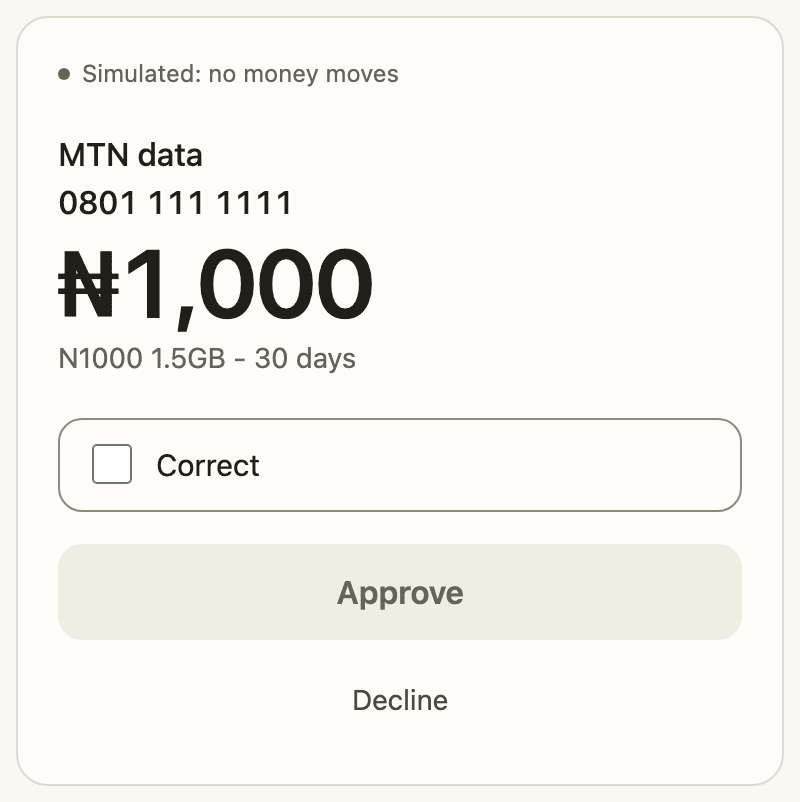
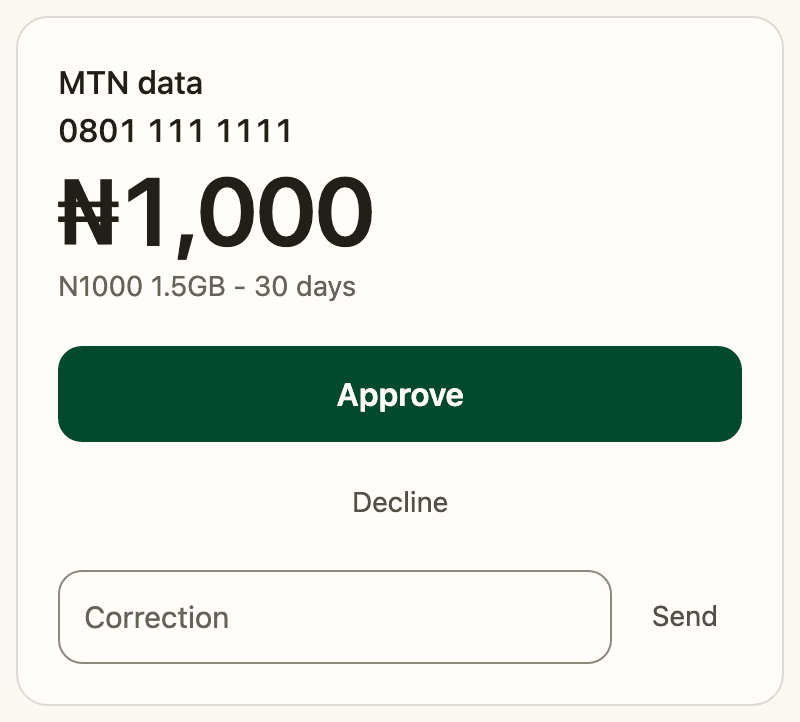
Card: no read-back tick; Approve, Decline and a Correction field that declines the card and tells the chat

diff --git a/checkout/src/checkout/card/card.html b/checkout/src/checkout/card/card.html
@@ -5,7 +5,7 @@
 <meta name="viewport" content="width=device-width, initial-scale=1">
 <title>Approval card</title>
 <style>/*! tailwindcss v4.3.3 | MIT License | https://tailwindcss.com */
-@layer properties{@supports (((-webkit-hyphens:none)) and (not (margin-trim:inline))) or ((-moz-orient:inline) and (not (color:rgb(from red r g b)))){*,:before,:after,::backdrop{--tw-border-style:solid;--tw-leading:initial;--tw-font-weight:initial;--tw-tracking:initial;--tw-ordinal:initial;--tw-slashed-zero:initial;--tw-numeric-figure:initial;--tw-numeric-spacing:initial;--tw-numeric-fraction:initial;--tw-outline-style:solid}}}@layer theme{:root,:host{--font-mono:ui-monospace, SFMono-Regular, Menlo, Monaco, Consolas, "Liberation Mono", "Courier New", monospace;--spacing:.25rem;--container-sm:24rem;--text-xs:.75rem;--text-xs--line-height:calc(1 / .75);--text-sm:.875rem;--text-sm--line-height:calc(1.25 / .875);--text-base:1rem;--text-base--line-height:calc(1.5 / 1);--text-2xl:1.5rem;--text-2xl--line-height:calc(2 / 1.5);--text-5xl:3rem;--text-5xl--line-height:1;--font-weight-medium:500;--font-weight-semibold:600;--tracking-tight:-.025em;--tracking-widest:.1em;--leading-snug:1.375;--animate-spin:spin 1s linear infinite;--animate-pulse:pulse 2s cubic-bezier(.4, 0, .6, 1) infinite;--default-font-family:var(--stack-sans);--default-mono-font-family:var(--font-mono)}}@layer base{*,:after,:before,::backdrop{box-sizing:border-box;border:0 solid;margin:0;padding:0}::file-selector-button{box-sizing:border-box;border:0 solid;margin:0;padding:0}html,:host{-webkit-text-size-adjust:100%;tab-size:4;line-height:1.5;font-family:var(--default-font-family,-apple-system, BlinkMacSystemFont, "Segoe UI", Roboto, "Helvetica Neue", "Noto Sans", Arial, sans-serif, "Apple Color Emoji", "Segoe UI Emoji", "Segoe UI Symbol", "Noto Color Emoji");font-feature-settings:var(--default-font-feature-settings,normal);font-variation-settings:var(--default-font-variation-settings,normal);-webkit-tap-highlight-color:transparent}hr{height:0;color:inherit;border-top-width:1px}abbr:where([title]){-webkit-text-decoration:underline dotted;text-decoration:underline dotted}h1,h2,h3,h4,h5,h6{font-size:inherit;font-weight:inherit}a{color:inherit;-webkit-text-decoration:inherit;-webkit-text-decoration:inherit;-webkit-text-decoration:inherit;text-decoration:inherit}b,strong{font-weight:bolder}code,kbd,samp,pre{font-family:var(--default-mono-font-family,ui-monospace, SFMono-Regular, Menlo, Monaco, Consolas, "Liberation Mono", "Courier New", monospace);font-feature-settings:var(--default-mono-font-feature-settings,normal);font-variation-settings:var(--default-mono-font-variation-settings,normal);font-size:1em}small{font-size:80%}sub,sup{vertical-align:baseline;font-size:75%;line-height:0;position:relative}sub{bottom:-.25em}sup{top:-.5em}table{text-indent:0;border-color:inherit;border-collapse:collapse}:-moz-focusring:where(:not(iframe)){outline:auto}progress{vertical-align:baseline}summary{display:list-item}ol,ul,menu{list-style:none}img,svg,video,canvas,audio,iframe,embed,object{vertical-align:middle;display:block}img,video{max-width:100%;height:auto}button,input,select,optgroup,textarea{font:inherit;font-feature-settings:inherit;font-variation-settings:inherit;letter-spacing:inherit;color:inherit;opacity:1;background-color:#0000;border-radius:0}::file-selector-button{font:inherit;font-feature-settings:inherit;font-variation-settings:inherit;letter-spacing:inherit;color:inherit;opacity:1;background-color:#0000;border-radius:0}:where(select:is([multiple],[size])) optgroup{font-weight:bolder}:where(select:is([multiple],[size])) optgroup option{padding-inline-start:20px}::file-selector-button{margin-inline-end:4px}::placeholder{opacity:1}@supports (not ((-webkit-appearance:-apple-pay-button))) or (contain-intrinsic-size:1px){::placeholder{color:currentColor}@supports (color:color-mix(in lab, red, red)){::placeholder{color:color-mix(in oklab, currentcolor 50%, transparent)}}}textarea{resize:vertical}::-webkit-search-decoration{-webkit-appearance:none}::-webkit-date-and-time-value{min-height:1lh;text-align:inherit}::-webkit-datetime-edit{display:inline-flex}::-webkit-datetime-edit-fields-wrapper{padding:0}::-webkit-datetime-edit{padding-block:0}::-webkit-datetime-edit-year-field{padding-block:0}::-webkit-datetime-edit-month-field{padding-block:0}::-webkit-datetime-edit-day-field{padding-block:0}::-webkit-datetime-edit-hour-field{padding-block:0}::-webkit-datetime-edit-minute-field{padding-block:0}::-webkit-datetime-edit-second-field{padding-block:0}::-webkit-datetime-edit-millisecond-field{padding-block:0}::-webkit-datetime-edit-meridiem-field{padding-block:0}::-webkit-calendar-picker-indicator{line-height:1}:-moz-ui-invalid{box-shadow:none}button,input:where([type=button],[type=reset],[type=submit]){appearance:button}::file-selector-button{appearance:button}::-webkit-inner-spin-button{height:auto}::-webkit-outer-spin-button{height:auto}[hidden]:where(:not([hidden=until-found])){display:none!important}}@layer components{.btn-primary{min-height:calc(var(--spacing) * 11);cursor:pointer;border-radius:var(--r-control);background-color:var(--primary);width:100%;padding-inline:calc(var(--spacing) * 4);padding-block:calc(var(--spacing) * 3);font-size:var(--text-base);line-height:var(--tw-leading,var(--text-base--line-height));--tw-font-weight:var(--font-weight-semibold);font-weight:var(--font-weight-semibold);color:var(--on-primary)}.btn-primary:focus-visible{outline:2px solid var(--primary);outline-offset:2px}@media (hover:hover){.btn-primary:hover{background-color:var(--primary-hover)}}.btn-primary:active{background-color:var(--primary-pressed)}.btn-primary:disabled{cursor:not-allowed;background-color:var(--sunken);color:var(--ink-3)}@media (hover:hover){.btn-primary:disabled:hover{background-color:var(--sunken)}}.btn-secondary{min-height:calc(var(--spacing) * 11);cursor:pointer;border-radius:var(--r-control);border-style:var(--tw-border-style);border-width:1px;border-color:var(--line-strong);width:100%;padding-inline:calc(var(--spacing) * 4);padding-block:calc(var(--spacing) * 2.5);font-size:var(--text-base);line-height:var(--tw-leading,var(--text-base--line-height));color:var(--ink);background-color:#0000}.btn-secondary:focus-visible{outline:2px solid var(--primary);outline-offset:2px}@media (hover:hover){.btn-secondary:hover{background-color:var(--mint)}}.btn-secondary:disabled{cursor:not-allowed;opacity:.5}.btn-quiet{min-height:calc(var(--spacing) * 11);cursor:pointer;border-radius:var(--r-control);padding-inline:calc(var(--spacing) * 3);font-size:var(--text-sm);line-height:var(--tw-leading,var(--text-sm--line-height));color:var(--ink-2);background-color:#0000}.btn-quiet:focus-visible{outline:2px solid var(--primary);outline-offset:2px}@media (hover:hover){.btn-quiet:hover{color:var(--ink)}}.btn-quiet:disabled{cursor:not-allowed;opacity:.5}.field{border-radius:var(--r-control);border-style:var(--tw-border-style);border-width:1px;border-color:var(--line-strong);padding-inline:calc(var(--spacing) * 3);font-size:var(--text-base);line-height:var(--tw-leading,var(--text-base--line-height));color:var(--ink);background-color:#0000}.field:focus-visible{outline:2px solid var(--primary);outline-offset:2px}.field::placeholder{color:var(--ink-3)}}@layer utilities{.sr-only{clip-path:inset(50%);white-space:nowrap;border-width:0;width:1px;height:1px;margin:-1px;padding:0;position:absolute;overflow:hidden}.absolute{position:absolute}.relative{position:relative}.-start-\[calc\(0\.5rem\+1px\)\]{inset-inline-start:calc(-.5rem - 1px)}.top-0{top:0}.m-0{margin:0}.mx-auto{margin-inline:auto}.my-1{margin-block:var(--spacing)}.ms-2{margin-inline-start:calc(var(--spacing) * 2)}.mt-1{margin-top:var(--spacing)}.mt-3{margin-top:calc(var(--spacing) * 3)}.mt-4{margin-top:calc(var(--spacing) * 4)}.mt-5{margin-top:calc(var(--spacing) * 5)}.mb-2{margin-bottom:calc(var(--spacing) * 2)}.mb-4{margin-bottom:calc(var(--spacing) * 4)}.block{display:block}.flex{display:flex}.grid{display:grid}.hidden{display:none}.inline{display:inline}.size-2\.5{width:calc(var(--spacing) * 2.5);height:calc(var(--spacing) * 2.5)}.size-4{width:calc(var(--spacing) * 4);height:calc(var(--spacing) * 4)}.size-5{width:calc(var(--spacing) * 5);height:calc(var(--spacing) * 5)}.w-full{width:100%}.max-w-sm{max-width:var(--container-sm)}.min-w-0{min-width:0}.shrink-0{flex-shrink:0}.animate-spin{animation:var(--animate-spin)}.cursor-pointer{cursor:pointer}.list-none{list-style-type:none}.flex-col{flex-direction:column}.place-items-center{place-items:center}.items-center{align-items:center}.justify-between{justify-content:space-between}.gap-0\.5{gap:calc(var(--spacing) * .5)}.gap-2{gap:calc(var(--spacing) * 2)}.gap-3{gap:calc(var(--spacing) * 3)}.gap-4{gap:calc(var(--spacing) * 4)}.rounded-card{border-radius:var(--r-card)}.rounded-control{border-radius:var(--r-control)}.rounded-full{border-radius:3.40282e38px}.border{border-style:var(--tw-border-style);border-width:1px}.border-2{border-style:var(--tw-border-style);border-width:2px}.border-s-2{border-inline-start-style:var(--tw-border-style);border-inline-start-width:2px}.border-t{border-top-style:var(--tw-border-style);border-top-width:1px}.border-ink{border-color:var(--ink)}.border-line{border-color:var(--line)}.border-line-strong{border-color:var(--line-strong)}.border-ok{border-color:var(--ok)}.bg-ink{background-color:var(--ink)}.bg-ok{background-color:var(--ok)}.bg-raised{background-color:var(--raised)}.bg-sunken{background-color:var(--sunken)}.bg-transparent{background-color:#0000}.p-0{padding:0}.p-2{padding:calc(var(--spacing) * 2)}.p-5{padding:calc(var(--spacing) * 5)}.px-3{padding-inline:calc(var(--spacing) * 3)}.px-4{padding-inline:calc(var(--spacing) * 4)}.py-2{padding-block:calc(var(--spacing) * 2)}.py-2\.5{padding-block:calc(var(--spacing) * 2.5)}.py-3{padding-block:calc(var(--spacing) * 3)}.ps-6{padding-inline-start:calc(var(--spacing) * 6)}.pb-3{padding-bottom:calc(var(--spacing) * 3)}.text-center{text-align:center}.text-left{text-align:left}.text-right{text-align:right}.font-mono{font-family:var(--font-mono)}.font-sans{font-family:var(--stack-sans)}.text-2xl{font-size:var(--text-2xl);line-height:var(--tw-leading,var(--text-2xl--line-height))}.text-5xl{font-size:var(--text-5xl);line-height:var(--tw-leading,var(--text-5xl--line-height))}.text-base{font-size:var(--text-base);line-height:var(--tw-leading,var(--text-base--line-height))}.text-sm{font-size:var(--text-sm);line-height:var(--tw-leading,var(--text-sm--line-height))}.text-xs{font-size:var(--text-xs);line-height:var(--tw-leading,var(--text-xs--line-height))}.text-\[0\.9375rem\]{font-size:.9375rem}.leading-5{--tw-leading:calc(var(--spacing) * 5);line-height:calc(var(--spacing) * 5)}.leading-snug{--tw-leading:var(--leading-snug);line-height:var(--leading-snug)}.font-medium{--tw-font-weight:var(--font-weight-medium);font-weight:var(--font-weight-medium)}.font-semibold{--tw-font-weight:var(--font-weight-semibold);font-weight:var(--font-weight-semibold)}.tracking-tight{--tw-tracking:var(--tracking-tight);letter-spacing:var(--tracking-tight)}.tracking-widest{--tw-tracking:var(--tracking-widest);letter-spacing:var(--tracking-widest)}.wrap-break-word{overflow-wrap:break-word}.break-all{word-break:break-all}.whitespace-nowrap{white-space:nowrap}.text-bad{color:var(--bad)}.text-ground{color:var(--ground)}.text-ink{color:var(--ink)}.text-ink-2{color:var(--ink-2)}.text-ink-3{color:var(--ink-3)}.tabular-nums{--tw-numeric-spacing:tabular-nums;font-variant-numeric:var(--tw-ordinal,) var(--tw-slashed-zero,) var(--tw-numeric-figure,) var(--tw-numeric-spacing,) var(--tw-numeric-fraction,)}.line-through{text-decoration-line:line-through}.accent-ink{accent-color:var(--ink)}.opacity-25{opacity:.25}.focus-ring:focus-visible{outline:2px solid var(--primary);outline-offset:2px}.outline-4{outline-style:var(--tw-outline-style);outline-width:4px}.outline-offset-2{outline-offset:2px}.outline-line-strong{outline-color:var(--line-strong)}.placeholder\:text-ink-3::placeholder{color:var(--ink-3)}.last\:border-transparent:last-child{border-color:#0000}.last\:pb-0:last-child{padding-bottom:0}.empty\:hidden:empty{display:none}.has-focus-visible\:outline-2:has(:focus-visible){outline-style:var(--tw-outline-style);outline-width:2px}.has-focus-visible\:outline-offset-2:has(:focus-visible){outline-offset:2px}.has-focus-visible\:outline-primary:has(:focus-visible){outline-color:var(--primary)}.aria-invalid\:border-bad[aria-invalid=true]{border-color:var(--bad)}.data-\[tone\=bad\]\:bg-bad-soft[data-tone=bad]{background-color:var(--bad-soft)}.data-\[tone\=bad\]\:text-bad[data-tone=bad]{color:var(--bad)}.data-\[tone\=ok\]\:bg-ok-soft[data-tone=ok]{background-color:var(--ok-soft)}.data-\[tone\=ok\]\:text-ok[data-tone=ok]{color:var(--ok)}@media (prefers-reduced-motion:no-preference){.motion-safe\:animate-pulse{animation:var(--animate-pulse)}}@media (prefers-reduced-motion:reduce){.motion-reduce\:animate-none{animation:none}}}:root{color-scheme:light dark;--ground:#faf8f2;--raised:#fefdfa;--sunken:#f0ede4;--mint:#e0f7ea;--line:#dedad1;--line-strong:#8e897c;--ink:#221f18;--ink-2:#535046;--ink-3:#66635a;--primary:#03492f;--primary-hover:#023924;--primary-pressed:#022b1a;--on-primary:#fdfcf7;--accent:#00ad53;--mark:#03492f;--mark-mint:#ddf3e6;--ok:#005f5f;--ok-soft:#ddf6f6;--warn:#7b4c00;--warn-soft:#fdefcb;--bad:#b31415;--bad-soft:#fee9e8;--scrim:#0e191373;--shadow:#091a1114;--tile-main:#cff6e0;--tile-main-ink:#0c4f33;--tile-soup:#fee6d4;--tile-soup-ink:#753b07;--tile-side:#e9f1c3;--tile-side-ink:#424e08;--tile-drink:#d3f1fd;--tile-drink-ink:#04526d;--google-surface:#fff;--google-edge:#747775;--google-ink:#1f1f1f;--r-control:.75rem;--r-card:1rem;--r-sheet:1.25rem;--stack-sans:system-ui, -apple-system, "Segoe UI", Roboto, "Helvetica Neue", Arial, "Noto Sans", sans-serif;--stack-display:Manrope, system-ui, -apple-system, "Segoe UI", Roboto, sans-serif}@media (prefers-color-scheme:dark){:root{--ground:#08120c;--raised:#0e1d15;--sunken:#17291f;--mint:#143525;--line:#283a30;--line-strong:#668272;--ink:#e6f3e8;--ink-2:#afc4b5;--ink-3:#97aa9c;--primary:#38d080;--primary-hover:#5adf92;--primary-pressed:#2bbb71;--on-primary:#001a0c;--accent:#01d879;--mark:#fefdfe;--mark-mint:#cbfae3;--ok:#57d4d4;--ok-soft:#012d2d;--warn:#e8be62;--warn-soft:#322405;--bad:#ff9689;--bad-soft:#3b1c1b;--scrim:#00030199;--shadow:#00000059;--tile-main:#073421;--tile-main-ink:#95e6bb;--tile-soup:#3d250f;--tile-soup-ink:#fdc495;--tile-side:#2b2e0e;--tile-side-ink:#cbd689;--tile-drink:#122f3a;--tile-drink-ink:#93d9f5;--google-surface:#131314;--google-edge:#8e918f;--google-ink:#e3e3e3}}:root.light{color-scheme:light;--ground:#faf8f2;--raised:#fefdfa;--sunken:#f0ede4;--mint:#e0f7ea;--line:#dedad1;--line-strong:#8e897c;--ink:#221f18;--ink-2:#535046;--ink-3:#66635a;--primary:#03492f;--primary-hover:#023924;--primary-pressed:#022b1a;--on-primary:#fdfcf7;--accent:#00ad53;--mark:#03492f;--mark-mint:#ddf3e6;--ok:#005f5f;--ok-soft:#ddf6f6;--warn:#7b4c00;--warn-soft:#fdefcb;--bad:#b31415;--bad-soft:#fee9e8;--scrim:#0e191373;--shadow:#091a1114;--tile-main:#cff6e0;--tile-main-ink:#0c4f33;--tile-soup:#fee6d4;--tile-soup-ink:#753b07;--tile-side:#e9f1c3;--tile-side-ink:#424e08;--tile-drink:#d3f1fd;--tile-drink-ink:#04526d;--google-surface:#fff;--google-edge:#747775;--google-ink:#1f1f1f}:root.dark{color-scheme:dark;--ground:#08120c;--raised:#0e1d15;--sunken:#17291f;--mint:#143525;--line:#283a30;--line-strong:#668272;--ink:#e6f3e8;--ink-2:#afc4b5;--ink-3:#97aa9c;--primary:#38d080;--primary-hover:#5adf92;--primary-pressed:#2bbb71;--on-primary:#001a0c;--accent:#01d879;--mark:#fefdfe;--mark-mint:#cbfae3;--ok:#57d4d4;--ok-soft:#012d2d;--warn:#e8be62;--warn-soft:#322405;--bad:#ff9689;--bad-soft:#3b1c1b;--scrim:#00030199;--shadow:#00000059;--tile-main:#073421;--tile-main-ink:#95e6bb;--tile-soup:#3d250f;--tile-soup-ink:#fdc495;--tile-side:#2b2e0e;--tile-side-ink:#cbd689;--tile-drink:#122f3a;--tile-drink-ink:#93d9f5;--google-surface:#131314;--google-edge:#8e918f;--google-ink:#e3e3e3}@property --tw-border-style{syntax:"*";inherits:false;initial-value:solid}@property --tw-leading{syntax:"*";inherits:false}@property --tw-font-weight{syntax:"*";inherits:false}@property --tw-tracking{syntax:"*";inherits:false}@property --tw-ordinal{syntax:"*";inherits:false}@property --tw-slashed-zero{syntax:"*";inherits:false}@property --tw-numeric-figure{syntax:"*";inherits:false}@property --tw-numeric-spacing{syntax:"*";inherits:false}@property --tw-numeric-fraction{syntax:"*";inherits:false}@property --tw-outline-style{syntax:"*";inherits:false;initial-value:solid}@keyframes spin{to{transform:rotate(360deg)}}@keyframes pulse{50%{opacity:.5}}
+@layer properties{@supports (((-webkit-hyphens:none)) and (not (margin-trim:inline))) or ((-moz-orient:inline) and (not (color:rgb(from red r g b)))){*,:before,:after,::backdrop{--tw-border-style:solid;--tw-leading:initial;--tw-font-weight:initial;--tw-tracking:initial;--tw-ordinal:initial;--tw-slashed-zero:initial;--tw-numeric-figure:initial;--tw-numeric-spacing:initial;--tw-numeric-fraction:initial;--tw-outline-style:solid}}}@layer theme{:root,:host{--font-mono:ui-monospace, SFMono-Regular, Menlo, Monaco, Consolas, "Liberation Mono", "Courier New", monospace;--spacing:.25rem;--container-sm:24rem;--text-xs:.75rem;--text-xs--line-height:calc(1 / .75);--text-sm:.875rem;--text-sm--line-height:calc(1.25 / .875);--text-base:1rem;--text-base--line-height:calc(1.5 / 1);--text-2xl:1.5rem;--text-2xl--line-height:calc(2 / 1.5);--text-5xl:3rem;--text-5xl--line-height:1;--font-weight-medium:500;--font-weight-semibold:600;--tracking-tight:-.025em;--tracking-widest:.1em;--leading-snug:1.375;--animate-spin:spin 1s linear infinite;--animate-pulse:pulse 2s cubic-bezier(.4, 0, .6, 1) infinite;--default-font-family:var(--stack-sans);--default-mono-font-family:var(--font-mono)}}@layer base{*,:after,:before,::backdrop{box-sizing:border-box;border:0 solid;margin:0;padding:0}::file-selector-button{box-sizing:border-box;border:0 solid;margin:0;padding:0}html,:host{-webkit-text-size-adjust:100%;tab-size:4;line-height:1.5;font-family:var(--default-font-family,-apple-system, BlinkMacSystemFont, "Segoe UI", Roboto, "Helvetica Neue", "Noto Sans", Arial, sans-serif, "Apple Color Emoji", "Segoe UI Emoji", "Segoe UI Symbol", "Noto Color Emoji");font-feature-settings:var(--default-font-feature-settings,normal);font-variation-settings:var(--default-font-variation-settings,normal);-webkit-tap-highlight-color:transparent}hr{height:0;color:inherit;border-top-width:1px}abbr:where([title]){-webkit-text-decoration:underline dotted;text-decoration:underline dotted}h1,h2,h3,h4,h5,h6{font-size:inherit;font-weight:inherit}a{color:inherit;-webkit-text-decoration:inherit;-webkit-text-decoration:inherit;-webkit-text-decoration:inherit;text-decoration:inherit}b,strong{font-weight:bolder}code,kbd,samp,pre{font-family:var(--default-mono-font-family,ui-monospace, SFMono-Regular, Menlo, Monaco, Consolas, "Liberation Mono", "Courier New", monospace);font-feature-settings:var(--default-mono-font-feature-settings,normal);font-variation-settings:var(--default-mono-font-variation-settings,normal);font-size:1em}small{font-size:80%}sub,sup{vertical-align:baseline;font-size:75%;line-height:0;position:relative}sub{bottom:-.25em}sup{top:-.5em}table{text-indent:0;border-color:inherit;border-collapse:collapse}:-moz-focusring:where(:not(iframe)){outline:auto}progress{vertical-align:baseline}summary{display:list-item}ol,ul,menu{list-style:none}img,svg,video,canvas,audio,iframe,embed,object{vertical-align:middle;display:block}img,video{max-width:100%;height:auto}button,input,select,optgroup,textarea{font:inherit;font-feature-settings:inherit;font-variation-settings:inherit;letter-spacing:inherit;color:inherit;opacity:1;background-color:#0000;border-radius:0}::file-selector-button{font:inherit;font-feature-settings:inherit;font-variation-settings:inherit;letter-spacing:inherit;color:inherit;opacity:1;background-color:#0000;border-radius:0}:where(select:is([multiple],[size])) optgroup{font-weight:bolder}:where(select:is([multiple],[size])) optgroup option{padding-inline-start:20px}::file-selector-button{margin-inline-end:4px}::placeholder{opacity:1}@supports (not ((-webkit-appearance:-apple-pay-button))) or (contain-intrinsic-size:1px){::placeholder{color:currentColor}@supports (color:color-mix(in lab, red, red)){::placeholder{color:color-mix(in oklab, currentcolor 50%, transparent)}}}textarea{resize:vertical}::-webkit-search-decoration{-webkit-appearance:none}::-webkit-date-and-time-value{min-height:1lh;text-align:inherit}::-webkit-datetime-edit{display:inline-flex}::-webkit-datetime-edit-fields-wrapper{padding:0}::-webkit-datetime-edit{padding-block:0}::-webkit-datetime-edit-year-field{padding-block:0}::-webkit-datetime-edit-month-field{padding-block:0}::-webkit-datetime-edit-day-field{padding-block:0}::-webkit-datetime-edit-hour-field{padding-block:0}::-webkit-datetime-edit-minute-field{padding-block:0}::-webkit-datetime-edit-second-field{padding-block:0}::-webkit-datetime-edit-millisecond-field{padding-block:0}::-webkit-datetime-edit-meridiem-field{padding-block:0}::-webkit-calendar-picker-indicator{line-height:1}:-moz-ui-invalid{box-shadow:none}button,input:where([type=button],[type=reset],[type=submit]){appearance:button}::file-selector-button{appearance:button}::-webkit-inner-spin-button{height:auto}::-webkit-outer-spin-button{height:auto}[hidden]:where(:not([hidden=until-found])){display:none!important}}@layer components{.btn-primary{min-height:calc(var(--spacing) * 11);cursor:pointer;border-radius:var(--r-control);background-color:var(--primary);width:100%;padding-inline:calc(var(--spacing) * 4);padding-block:calc(var(--spacing) * 3);font-size:var(--text-base);line-height:var(--tw-leading,var(--text-base--line-height));--tw-font-weight:var(--font-weight-semibold);font-weight:var(--font-weight-semibold);color:var(--on-primary)}.btn-primary:focus-visible{outline:2px solid var(--primary);outline-offset:2px}@media (hover:hover){.btn-primary:hover{background-color:var(--primary-hover)}}.btn-primary:active{background-color:var(--primary-pressed)}.btn-primary:disabled{cursor:not-allowed;background-color:var(--sunken);color:var(--ink-3)}@media (hover:hover){.btn-primary:disabled:hover{background-color:var(--sunken)}}.btn-secondary{min-height:calc(var(--spacing) * 11);cursor:pointer;border-radius:var(--r-control);border-style:var(--tw-border-style);border-width:1px;border-color:var(--line-strong);width:100%;padding-inline:calc(var(--spacing) * 4);padding-block:calc(var(--spacing) * 2.5);font-size:var(--text-base);line-height:var(--tw-leading,var(--text-base--line-height));color:var(--ink);background-color:#0000}.btn-secondary:focus-visible{outline:2px solid var(--primary);outline-offset:2px}@media (hover:hover){.btn-secondary:hover{background-color:var(--mint)}}.btn-secondary:disabled{cursor:not-allowed;opacity:.5}.btn-quiet{min-height:calc(var(--spacing) * 11);cursor:pointer;border-radius:var(--r-control);padding-inline:calc(var(--spacing) * 3);font-size:var(--text-sm);line-height:var(--tw-leading,var(--text-sm--line-height));color:var(--ink-2);background-color:#0000}.btn-quiet:focus-visible{outline:2px solid var(--primary);outline-offset:2px}@media (hover:hover){.btn-quiet:hover{color:var(--ink)}}.btn-quiet:disabled{cursor:not-allowed;opacity:.5}.field{border-radius:var(--r-control);border-style:var(--tw-border-style);border-width:1px;border-color:var(--line-strong);padding-inline:calc(var(--spacing) * 3);font-size:var(--text-base);line-height:var(--tw-leading,var(--text-base--line-height));color:var(--ink);background-color:#0000}.field:focus-visible{outline:2px solid var(--primary);outline-offset:2px}.field::placeholder{color:var(--ink-3)}}@layer utilities{.sr-only{clip-path:inset(50%);white-space:nowrap;border-width:0;width:1px;height:1px;margin:-1px;padding:0;position:absolute;overflow:hidden}.absolute{position:absolute}.relative{position:relative}.-start-\[calc\(0\.5rem\+1px\)\]{inset-inline-start:calc(-.5rem - 1px)}.top-0{top:0}.m-0{margin:0}.mx-auto{margin-inline:auto}.my-1{margin-block:var(--spacing)}.ms-2{margin-inline-start:calc(var(--spacing) * 2)}.mt-1{margin-top:var(--spacing)}.mt-3{margin-top:calc(var(--spacing) * 3)}.mt-4{margin-top:calc(var(--spacing) * 4)}.mt-5{margin-top:calc(var(--spacing) * 5)}.mb-4{margin-bottom:calc(var(--spacing) * 4)}.block{display:block}.flex{display:flex}.grid{display:grid}.hidden{display:none}.inline{display:inline}.size-2\.5{width:calc(var(--spacing) * 2.5);height:calc(var(--spacing) * 2.5)}.size-4{width:calc(var(--spacing) * 4);height:calc(var(--spacing) * 4)}.size-5{width:calc(var(--spacing) * 5);height:calc(var(--spacing) * 5)}.w-full{width:100%}.max-w-sm{max-width:var(--container-sm)}.min-w-0{min-width:0}.flex-1{flex:1}.shrink-0{flex-shrink:0}.animate-spin{animation:var(--animate-spin)}.list-none{list-style-type:none}.flex-col{flex-direction:column}.place-items-center{place-items:center}.items-center{align-items:center}.justify-between{justify-content:space-between}.gap-0\.5{gap:calc(var(--spacing) * .5)}.gap-2{gap:calc(var(--spacing) * 2)}.gap-3{gap:calc(var(--spacing) * 3)}.gap-4{gap:calc(var(--spacing) * 4)}.rounded-card{border-radius:var(--r-card)}.rounded-control{border-radius:var(--r-control)}.rounded-full{border-radius:3.40282e38px}.border{border-style:var(--tw-border-style);border-width:1px}.border-2{border-style:var(--tw-border-style);border-width:2px}.border-s-2{border-inline-start-style:var(--tw-border-style);border-inline-start-width:2px}.border-t{border-top-style:var(--tw-border-style);border-top-width:1px}.border-ink{border-color:var(--ink)}.border-line{border-color:var(--line)}.border-line-strong{border-color:var(--line-strong)}.border-ok{border-color:var(--ok)}.bg-ink{background-color:var(--ink)}.bg-ok{background-color:var(--ok)}.bg-raised{background-color:var(--raised)}.bg-sunken{background-color:var(--sunken)}.bg-transparent{background-color:#0000}.p-0{padding:0}.p-2{padding:calc(var(--spacing) * 2)}.p-5{padding:calc(var(--spacing) * 5)}.px-3{padding-inline:calc(var(--spacing) * 3)}.py-2{padding-block:calc(var(--spacing) * 2)}.py-2\.5{padding-block:calc(var(--spacing) * 2.5)}.py-3{padding-block:calc(var(--spacing) * 3)}.ps-6{padding-inline-start:calc(var(--spacing) * 6)}.pb-3{padding-bottom:calc(var(--spacing) * 3)}.text-center{text-align:center}.text-left{text-align:left}.text-right{text-align:right}.font-mono{font-family:var(--font-mono)}.font-sans{font-family:var(--stack-sans)}.text-2xl{font-size:var(--text-2xl);line-height:var(--tw-leading,var(--text-2xl--line-height))}.text-5xl{font-size:var(--text-5xl);line-height:var(--tw-leading,var(--text-5xl--line-height))}.text-base{font-size:var(--text-base);line-height:var(--tw-leading,var(--text-base--line-height))}.text-sm{font-size:var(--text-sm);line-height:var(--tw-leading,var(--text-sm--line-height))}.text-xs{font-size:var(--text-xs);line-height:var(--tw-leading,var(--text-xs--line-height))}.text-\[0\.9375rem\]{font-size:.9375rem}.leading-5{--tw-leading:calc(var(--spacing) * 5);line-height:calc(var(--spacing) * 5)}.leading-snug{--tw-leading:var(--leading-snug);line-height:var(--leading-snug)}.font-medium{--tw-font-weight:var(--font-weight-medium);font-weight:var(--font-weight-medium)}.font-semibold{--tw-font-weight:var(--font-weight-semibold);font-weight:var(--font-weight-semibold)}.tracking-tight{--tw-tracking:var(--tracking-tight);letter-spacing:var(--tracking-tight)}.tracking-widest{--tw-tracking:var(--tracking-widest);letter-spacing:var(--tracking-widest)}.wrap-break-word{overflow-wrap:break-word}.break-all{word-break:break-all}.whitespace-nowrap{white-space:nowrap}.text-bad{color:var(--bad)}.text-ground{color:var(--ground)}.text-ink{color:var(--ink)}.text-ink-2{color:var(--ink-2)}.text-ink-3{color:var(--ink-3)}.tabular-nums{--tw-numeric-spacing:tabular-nums;font-variant-numeric:var(--tw-ordinal,) var(--tw-slashed-zero,) var(--tw-numeric-figure,) var(--tw-numeric-spacing,) var(--tw-numeric-fraction,)}.line-through{text-decoration-line:line-through}.opacity-25{opacity:.25}.focus-ring:focus-visible{outline:2px solid var(--primary);outline-offset:2px}.outline-4{outline-style:var(--tw-outline-style);outline-width:4px}.outline-offset-2{outline-offset:2px}.outline-line-strong{outline-color:var(--line-strong)}.placeholder\:text-ink-3::placeholder{color:var(--ink-3)}.last\:border-transparent:last-child{border-color:#0000}.last\:pb-0:last-child{padding-bottom:0}.empty\:hidden:empty{display:none}.aria-invalid\:border-bad[aria-invalid=true]{border-color:var(--bad)}.data-\[tone\=bad\]\:bg-bad-soft[data-tone=bad]{background-color:var(--bad-soft)}.data-\[tone\=bad\]\:text-bad[data-tone=bad]{color:var(--bad)}.data-\[tone\=ok\]\:bg-ok-soft[data-tone=ok]{background-color:var(--ok-soft)}.data-\[tone\=ok\]\:text-ok[data-tone=ok]{color:var(--ok)}@media (prefers-reduced-motion:no-preference){.motion-safe\:animate-pulse{animation:var(--animate-pulse)}}@media (prefers-reduced-motion:reduce){.motion-reduce\:animate-none{animation:none}}}:root{color-scheme:light dark;--ground:#faf8f2;--raised:#fefdfa;--sunken:#f0ede4;--mint:#e0f7ea;--line:#dedad1;--line-strong:#8e897c;--ink:#221f18;--ink-2:#535046;--ink-3:#66635a;--primary:#03492f;--primary-hover:#023924;--primary-pressed:#022b1a;--on-primary:#fdfcf7;--accent:#00ad53;--mark:#03492f;--mark-mint:#ddf3e6;--ok:#005f5f;--ok-soft:#ddf6f6;--warn:#7b4c00;--warn-soft:#fdefcb;--bad:#b31415;--bad-soft:#fee9e8;--scrim:#0e191373;--shadow:#091a1114;--tile-main:#cff6e0;--tile-main-ink:#0c4f33;--tile-soup:#fee6d4;--tile-soup-ink:#753b07;--tile-side:#e9f1c3;--tile-side-ink:#424e08;--tile-drink:#d3f1fd;--tile-drink-ink:#04526d;--google-surface:#fff;--google-edge:#747775;--google-ink:#1f1f1f;--r-control:.75rem;--r-card:1rem;--r-sheet:1.25rem;--stack-sans:system-ui, -apple-system, "Segoe UI", Roboto, "Helvetica Neue", Arial, "Noto Sans", sans-serif;--stack-display:Manrope, system-ui, -apple-system, "Segoe UI", Roboto, sans-serif}@media (prefers-color-scheme:dark){:root{--ground:#08120c;--raised:#0e1d15;--sunken:#17291f;--mint:#143525;--line:#283a30;--line-strong:#668272;--ink:#e6f3e8;--ink-2:#afc4b5;--ink-3:#97aa9c;--primary:#38d080;--primary-hover:#5adf92;--primary-pressed:#2bbb71;--on-primary:#001a0c;--accent:#01d879;--mark:#fefdfe;--mark-mint:#cbfae3;--ok:#57d4d4;--ok-soft:#012d2d;--warn:#e8be62;--warn-soft:#322405;--bad:#ff9689;--bad-soft:#3b1c1b;--scrim:#00030199;--shadow:#00000059;--tile-main:#073421;--tile-main-ink:#95e6bb;--tile-soup:#3d250f;--tile-soup-ink:#fdc495;--tile-side:#2b2e0e;--tile-side-ink:#cbd689;--tile-drink:#122f3a;--tile-drink-ink:#93d9f5;--google-surface:#131314;--google-edge:#8e918f;--google-ink:#e3e3e3}}:root.light{color-scheme:light;--ground:#faf8f2;--raised:#fefdfa;--sunken:#f0ede4;--mint:#e0f7ea;--line:#dedad1;--line-strong:#8e897c;--ink:#221f18;--ink-2:#535046;--ink-3:#66635a;--primary:#03492f;--primary-hover:#023924;--primary-pressed:#022b1a;--on-primary:#fdfcf7;--accent:#00ad53;--mark:#03492f;--mark-mint:#ddf3e6;--ok:#005f5f;--ok-soft:#ddf6f6;--warn:#7b4c00;--warn-soft:#fdefcb;--bad:#b31415;--bad-soft:#fee9e8;--scrim:#0e191373;--shadow:#091a1114;--tile-main:#cff6e0;--tile-main-ink:#0c4f33;--tile-soup:#fee6d4;--tile-soup-ink:#753b07;--tile-side:#e9f1c3;--tile-side-ink:#424e08;--tile-drink:#d3f1fd;--tile-drink-ink:#04526d;--google-surface:#fff;--google-edge:#747775;--google-ink:#1f1f1f}:root.dark{color-scheme:dark;--ground:#08120c;--raised:#0e1d15;--sunken:#17291f;--mint:#143525;--line:#283a30;--line-strong:#668272;--ink:#e6f3e8;--ink-2:#afc4b5;--ink-3:#97aa9c;--primary:#38d080;--primary-hover:#5adf92;--primary-pressed:#2bbb71;--on-primary:#001a0c;--accent:#01d879;--mark:#fefdfe;--mark-mint:#cbfae3;--ok:#57d4d4;--ok-soft:#012d2d;--warn:#e8be62;--warn-soft:#322405;--bad:#ff9689;--bad-soft:#3b1c1b;--scrim:#00030199;--shadow:#00000059;--tile-main:#073421;--tile-main-ink:#95e6bb;--tile-soup:#3d250f;--tile-soup-ink:#fdc495;--tile-side:#2b2e0e;--tile-side-ink:#cbd689;--tile-drink:#122f3a;--tile-drink-ink:#93d9f5;--google-surface:#131314;--google-edge:#8e918f;--google-ink:#e3e3e3}@property --tw-border-style{syntax:"*";inherits:false;initial-value:solid}@property --tw-leading{syntax:"*";inherits:false}@property --tw-font-weight{syntax:"*";inherits:false}@property --tw-tracking{syntax:"*";inherits:false}@property --tw-ordinal{syntax:"*";inherits:false}@property --tw-slashed-zero{syntax:"*";inherits:false}@property --tw-numeric-figure{syntax:"*";inherits:false}@property --tw-numeric-spacing{syntax:"*";inherits:false}@property --tw-numeric-fraction{syntax:"*";inherits:false}@property --tw-outline-style{syntax:"*";inherits:false;initial-value:solid}@keyframes spin{to{transform:rotate(360deg)}}@keyframes pulse{50%{opacity:.5}}
 </style>
 </head>
 <body class="m-0 bg-transparent p-2 font-sans text-[0.9375rem] leading-snug text-ink">
@@ -60,12 +60,13 @@
 
 <template id="t-approval">
   <div class="grid gap-2">
-    <label data-slot="readback" class="mb-2 hidden cursor-pointer items-center gap-3 rounded-control border border-line-strong px-4 py-3 has-focus-visible:outline-2 has-focus-visible:outline-offset-2 has-focus-visible:outline-primary">
-      <input type="checkbox" data-slot="readback-tick" class="size-5 shrink-0 cursor-pointer accent-ink">
-      <span>Correct</span>
-    </label>
     <button type="button" data-action="approve" class="btn-primary">Approve</button>
     <button type="button" data-action="decline" class="btn-quiet">Decline</button>
+    <div class="mt-1 flex items-center gap-2">
+      <label for="correction" class="sr-only">Correction</label>
+      <input id="correction" data-slot="correction" placeholder="Correction" maxlength="300" autocomplete="off" enterkeyhint="send" class="min-w-0 flex-1 rounded-control border border-line-strong bg-transparent px-3 py-3 outline-offset-2 placeholder:text-ink-3 focus-ring">
+      <button type="button" data-action="correct" aria-label="Send correction" class="btn-quiet shrink-0">Send</button>
+    </div>
   </div>
 </template>
 <template id="t-checkout">
@@ -179,6 +180,7 @@ const McpApp = (() => {
     openLink: (url) => request("ui/open-link", { url }),
     requestDisplayMode: (mode) => request("ui/request-display-mode", { mode }),
     host: () => host,
+    message: (text) => request("ui/message", { role: "user", content: [{ type: "text", text }] }),
     updateModelContext: (text) => request("ui/update-model-context", { content: [{ type: "text", text }] }),
   };
 })();
@@ -466,11 +468,6 @@ const InlineCheckout = (() => {
     switch (q.phase) {
       case "awaiting_approval": {
         const node = fromTemplate("t-approval");
-        if (q.details.kind === "airtime" || q.details.kind === "data") {
-          const tickRow = slot(node, "readback");
-          tickRow.classList.replace("hidden", "flex");
-          slot(node, "readback-tick").setAttribute("aria-label", `Correct: ${q.details.readBack}`);
-        }
         return node;
       }
       case "awaiting_checkout": return fromTemplate("t-checkout");
@@ -532,12 +529,7 @@ const InlineCheckout = (() => {
   }
 
   function syncBusy() {
-    const readback = root.querySelector('[data-slot="readback-tick"]');
-    const needsTick = Boolean(readback) && !readback.closest(".hidden");
-    root.querySelectorAll("button").forEach((button) => {
-      const blocked = state.busy || (button.dataset.action === "approve" && needsTick && !readback.checked);
-      button.disabled = blocked;
-    });
+    root.querySelectorAll("button").forEach((button) => { button.disabled = state.busy; });
   }
 
   const countdown = (ms) => {
@@ -643,15 +635,15 @@ const InlineCheckout = (() => {
 
   const actionsByName = {
     approve: async () => {
-      const tick = root.querySelector('[data-slot="readback-tick"]');
       const outcome = await run("approve_quote", {
         approval_token: state.token ?? "",
         displayed_amount_kobo: state.quote.amount.kobo,
-        readback_confirmed: tick ? tick.checked : false,
+        readback_confirmed: true,
       });
       if (outcome.quote?.checkoutUrl) openCheckout();
     },
     decline: () => run("decline_quote", { approval_token: state.token ?? "" }),
+    correct: () => sendCorrection(),
     "open-checkout": () => openCheckout(),
     "closed-checkout": () => run("verify_quote", { checkout_closed: true }),
     otp: () => submitOtp(),
@@ -667,8 +659,17 @@ const InlineCheckout = (() => {
     const code = root.querySelector('[data-slot="otp"]').value.trim();
     if (code.length >= 4) run("submit_otp", { otp: code });
   }
+  async function sendCorrection() {
+    const field = root.querySelector('[data-slot="correction"]');
+    const text = field.value.trim();
+    if (!text) return;
+    await run("decline_quote", { approval_token: state.token ?? "" });
+    McpApp.message(text).catch(() => undefined);
+  }
   root.addEventListener("keydown", (event) => {
-    if (event.key === "Enter" && event.target.dataset.slot === "otp") submitOtp();
+    if (event.key !== "Enter") return;
+    if (event.target.dataset.slot === "otp") submitOtp();
+    if (event.target.dataset.slot === "correction") sendCorrection();
   });
 
   let lastPoll = 0;

diff --git a/card/static/card.js b/card/static/card.js
@@ -109,11 +109,6 @@
     switch (q.phase) {
       case "awaiting_approval": {
         const node = fromTemplate("t-approval");
-        if (q.details.kind === "airtime" || q.details.kind === "data") {
-          const tickRow = slot(node, "readback");
-          tickRow.classList.replace("hidden", "flex");
-          slot(node, "readback-tick").setAttribute("aria-label", `Correct: ${q.details.readBack}`);
-        }
         return node;
       }
       case "awaiting_checkout": return fromTemplate("t-checkout");
@@ -175,12 +170,7 @@
   }
 
   function syncBusy() {
-    const readback = root.querySelector('[data-slot="readback-tick"]');
-    const needsTick = Boolean(readback) && !readback.closest(".hidden");
-    root.querySelectorAll("button").forEach((button) => {
-      const blocked = state.busy || (button.dataset.action === "approve" && needsTick && !readback.checked);
-      button.disabled = blocked;
-    });
+    root.querySelectorAll("button").forEach((button) => { button.disabled = state.busy; });
   }
 
   const countdown = (ms) => {
@@ -286,15 +276,15 @@
 
   const actionsByName = {
     approve: async () => {
-      const tick = root.querySelector('[data-slot="readback-tick"]');
       const outcome = await run("approve_quote", {
         approval_token: state.token ?? "",
         displayed_amount_kobo: state.quote.amount.kobo,
-        readback_confirmed: tick ? tick.checked : false,
+        readback_confirmed: true,
       });
       if (outcome.quote?.checkoutUrl) openCheckout();
     },
     decline: () => run("decline_quote", { approval_token: state.token ?? "" }),
+    correct: () => sendCorrection(),
     "open-checkout": () => openCheckout(),
     "closed-checkout": () => run("verify_quote", { checkout_closed: true }),
     otp: () => submitOtp(),
@@ -310,8 +300,17 @@
     const code = root.querySelector('[data-slot="otp"]').value.trim();
     if (code.length >= 4) run("submit_otp", { otp: code });
   }
+  async function sendCorrection() {
+    const field = root.querySelector('[data-slot="correction"]');
+    const text = field.value.trim();
+    if (!text) return;
+    await run("decline_quote", { approval_token: state.token ?? "" });
+    McpApp.message(text).catch(() => undefined);
+  }
   root.addEventListener("keydown", (event) => {
-    if (event.key === "Enter" && event.target.dataset.slot === "otp") submitOtp();
+    if (event.key !== "Enter") return;
+    if (event.target.dataset.slot === "otp") submitOtp();
+    if (event.target.dataset.slot === "correction") sendCorrection();
   });
 
   let lastPoll = 0;

diff --git a/card/templates/parts/actions.html b/card/templates/parts/actions.html
@@ -1,11 +1,12 @@
 <template id="t-approval">
   <div class="grid gap-2">
-    <label data-slot="readback" class="mb-2 hidden cursor-pointer items-center gap-3 rounded-control border border-line-strong px-4 py-3 has-focus-visible:outline-2 has-focus-visible:outline-offset-2 has-focus-visible:outline-primary">
-      <input type="checkbox" data-slot="readback-tick" class="size-5 shrink-0 cursor-pointer accent-ink">
-      <span>Correct</span>
-    </label>
     <button type="button" data-action="approve" class="btn-primary">Approve</button>
     <button type="button" data-action="decline" class="btn-quiet">Decline</button>
+    <div class="mt-1 flex items-center gap-2">
+      <label for="correction" class="sr-only">Correction</label>
+      <input id="correction" data-slot="correction" placeholder="Correction" maxlength="300" autocomplete="off" enterkeyhint="send" class="min-w-0 flex-1 rounded-control border border-line-strong bg-transparent px-3 py-3 outline-offset-2 placeholder:text-ink-3 focus-ring">
+      <button type="button" data-action="correct" aria-label="Send correction" class="btn-quiet shrink-0">Send</button>
+    </div>
   </div>
 </template>
 <template id="t-checkout">

diff --git a/checkout/src/checkout/card/memory.html b/checkout/src/checkout/card/memory.html
@@ -133,6 +133,7 @@ const McpApp = (() => {
     openLink: (url) => request("ui/open-link", { url }),
     requestDisplayMode: (mode) => request("ui/request-display-mode", { mode }),
     host: () => host,
+    message: (text) => request("ui/message", { role: "user", content: [{ type: "text", text }] }),
     updateModelContext: (text) => request("ui/update-model-context", { content: [{ type: "text", text }] }),
   };
 })();

diff --git a/checkout/src/checkout/card/menu.html b/checkout/src/checkout/card/menu.html
@@ -218,6 +218,7 @@ const McpApp = (() => {
     openLink: (url) => request("ui/open-link", { url }),
     requestDisplayMode: (mode) => request("ui/request-display-mode", { mode }),
     host: () => host,
+    message: (text) => request("ui/message", { role: "user", content: [{ type: "text", text }] }),
     updateModelContext: (text) => request("ui/update-model-context", { content: [{ type: "text", text }] }),
   };
 })();

diff --git a/card/static/mcp-app.js b/card/static/mcp-app.js
@@ -94,6 +94,7 @@ const McpApp = (() => {
     openLink: (url) => request("ui/open-link", { url }),
     requestDisplayMode: (mode) => request("ui/request-display-mode", { mode }),
     host: () => host,
+    message: (text) => request("ui/message", { role: "user", content: [{ type: "text", text }] }),
     updateModelContext: (text) => request("ui/update-model-context", { content: [{ type: "text", text }] }),
   };
 })();
